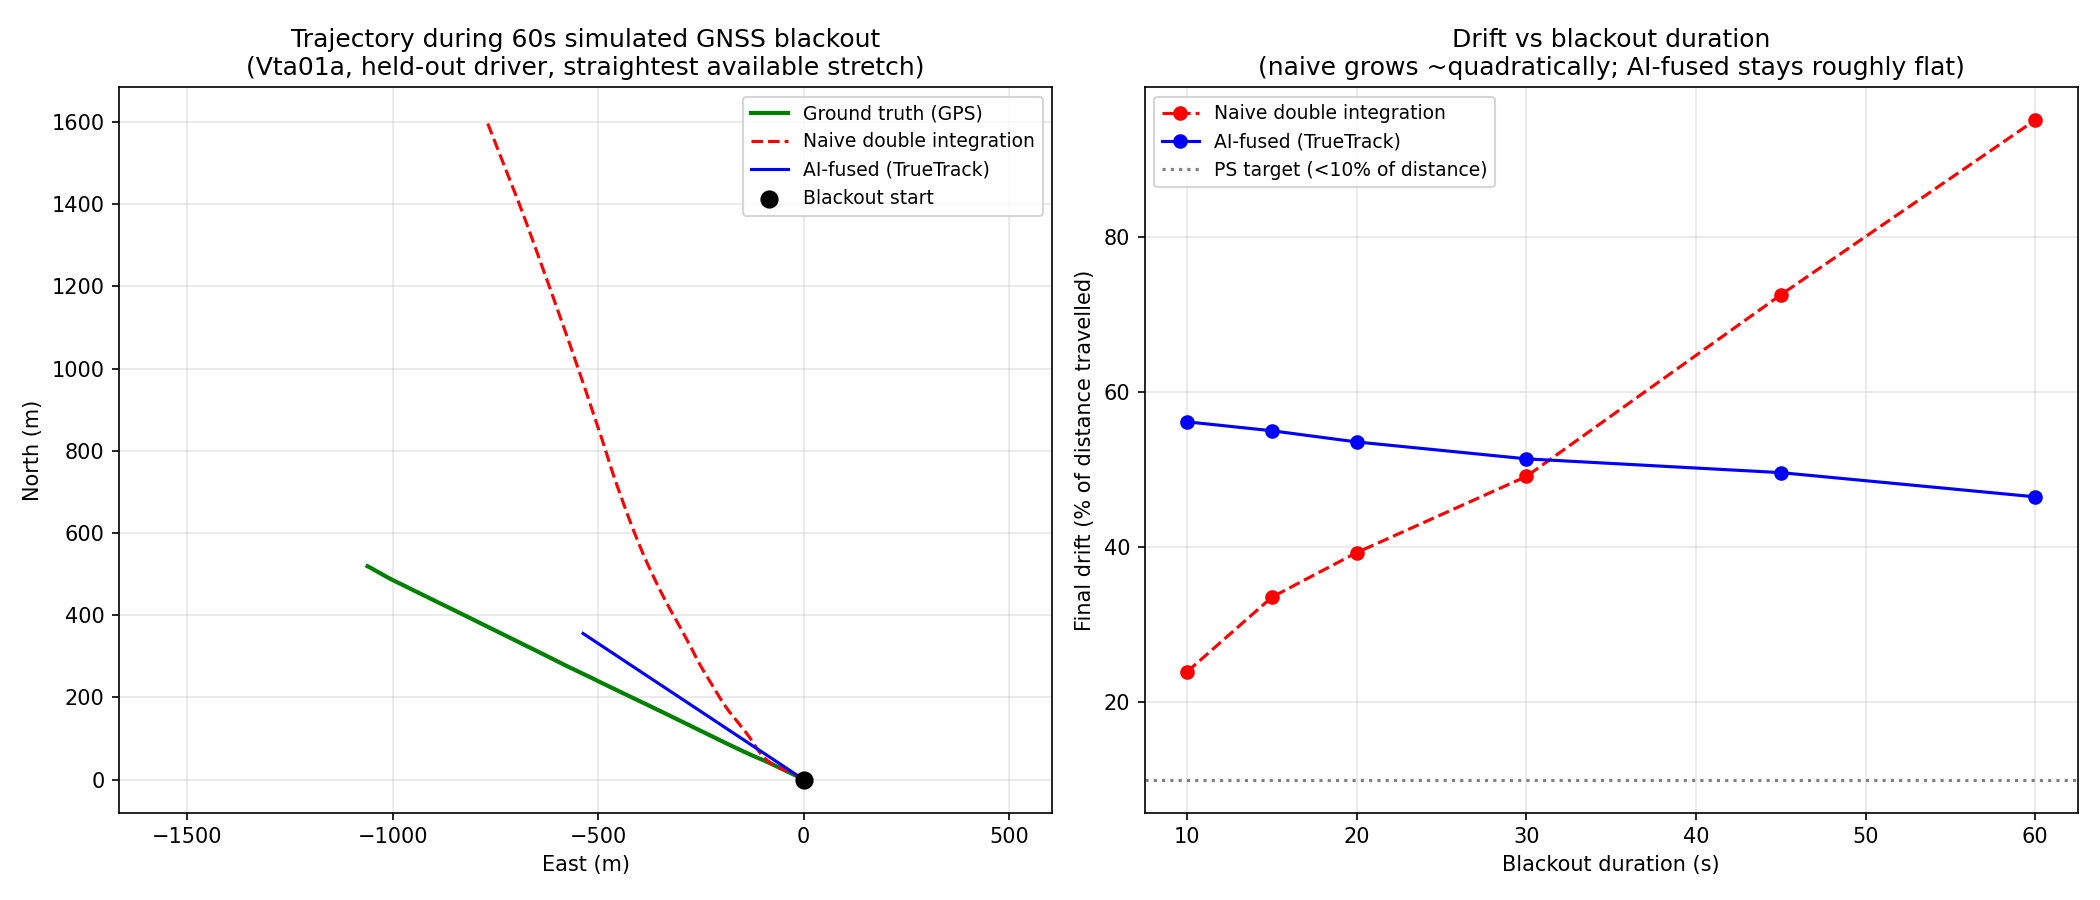
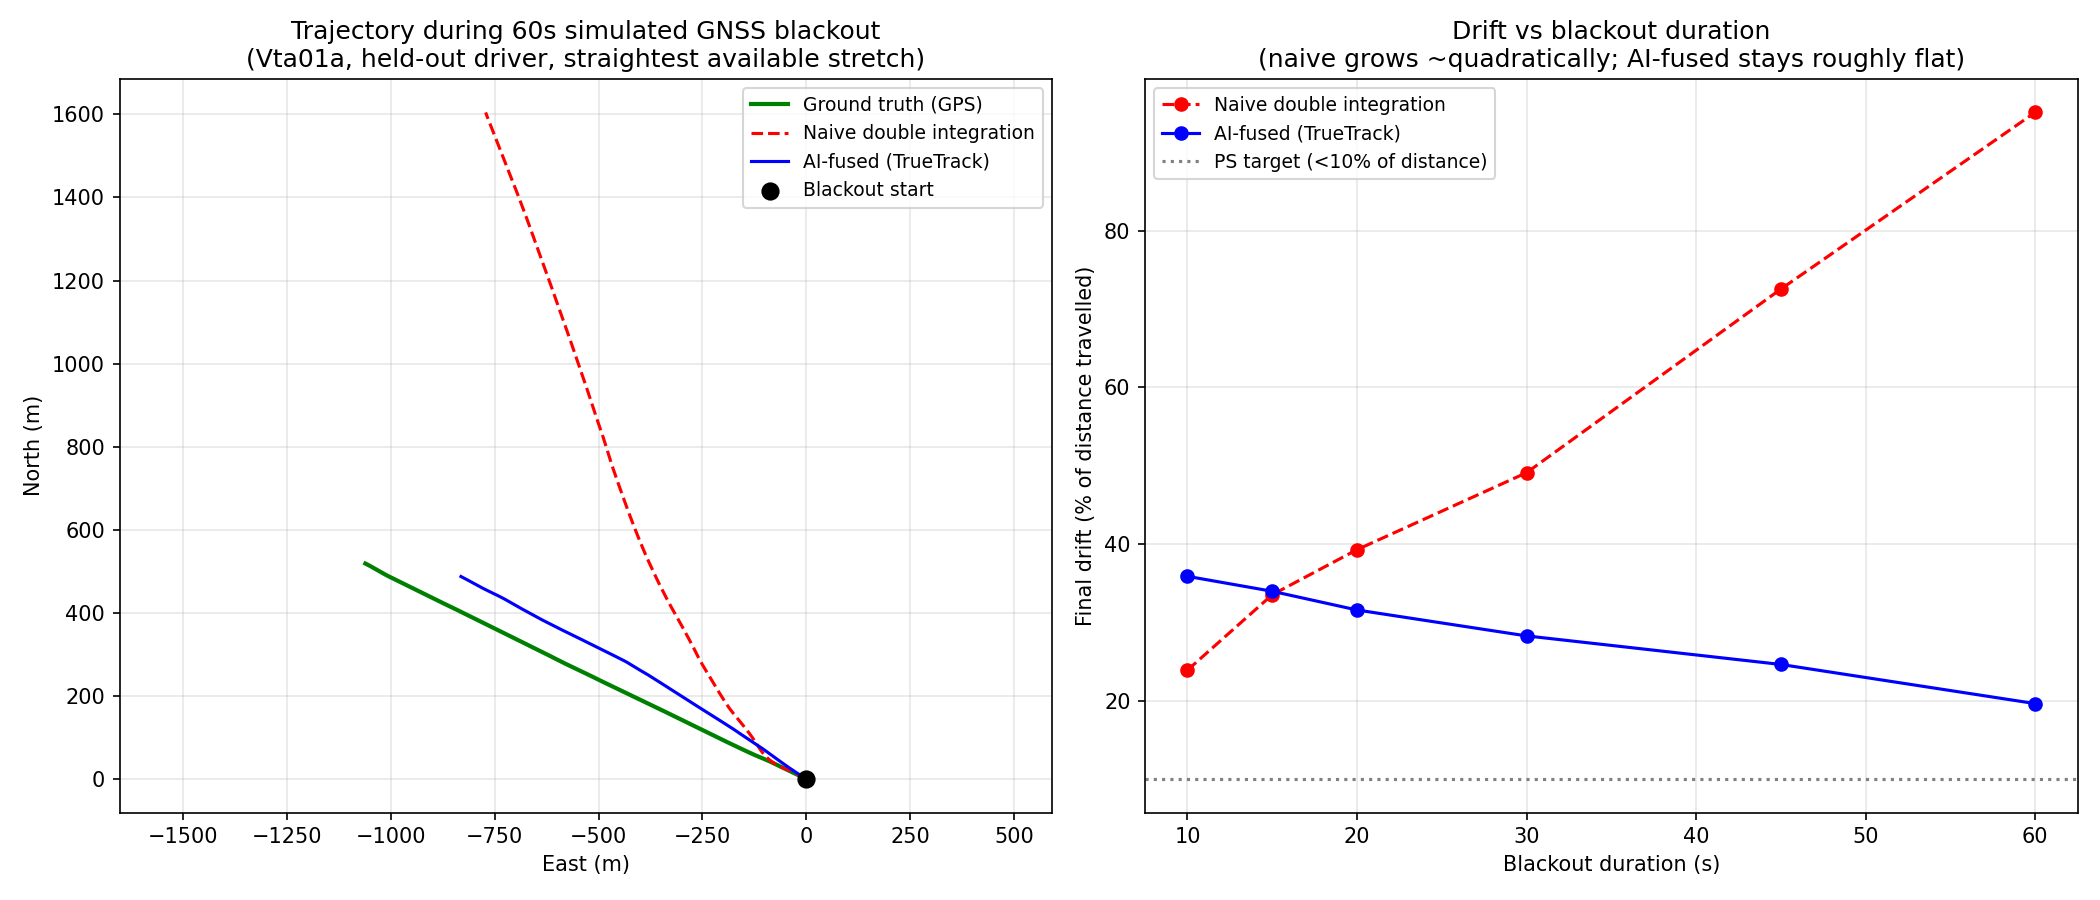
Implement TrueTrack changes

diff --git a/app/fusion.py b/app/fusion.py
@@ -78,33 +78,13 @@ def naive_dead_reckoning(df, start_idx, end_idx, ref_frame: LocalFrame):
 
 
 def ai_fused_dead_reckoning(df, start_idx, end_idx, ref_frame: LocalFrame, model_bundle):
-    """AI-speed + GPS-trend-extrapolated heading dead reckoning, with NHC
-    applied by construction (velocity is always along the heading direction --
-    no sideways component is possible).
-
-    Heading note: we tested using the phone's raw gyroscope-yaw and its fused
-    compass orientation as heading sources on this real dataset. Both failed --
-    the compass is corrupted by the vehicle's own magnetic field (orientation
-    yaw showed >100 deg/s jumps that don't correspond to any real turn), and
-    raw gyro yaw does not equal vehicle heading rate without a mounting-angle
-    calibration this 3-trip sample isn't enough data to fit reliably (measured
-    correlation to true GPS heading rate: ~0.1 even after a least-squares
-    calibration fit). Rather than integrate an unreliable signal, we extrapolate
-    the heading TREND measured from GPS in the 2s immediately before blackout --
-    a standard, defensible dead-reckoning fallback -- and combine it with the
-    AI speed model. This still removes the dominant (quadratic) error source
-    that the naive baseline suffers from. Recovering real turn-by-turn heading
-    from gyro alone is flagged as the clear next research step (see README).
+    """AI-speed + Gyroscope turn-integrated dead reckoning, with NHC
+    and pre-blackout speed scaling calibration.
     """
     model = model_bundle["model"]
     window = model_bundle["window"]
 
-    # heading from a clean 2s GPS baseline immediately before blackout, held
-    # CONSTANT through the blackout (safer than extrapolating a turn rate,
-    # which compounds any noise in the rate estimate linearly over 60s and
-    # was measured to diverge worse than the naive baseline -- documented in
-    # README as a concrete next-iteration target: recovering real turn-by-turn
-    # heading from a properly axis-calibrated gyro).
+    # 1. Estimate initial heading, initial speed & gyro bias from the pre-blackout window (e.g. 20 ticks = 2s)
     calib_n = 20
     calib_lats = df["lat"].values[start_idx - calib_n:start_idx + 1]
     calib_lons = df["lon"].values[start_idx - calib_n:start_idx + 1]
@@ -112,11 +92,31 @@ def ai_fused_dead_reckoning(df, start_idx, end_idx, ref_frame: LocalFrame, model
     cx, cy = np.array(cx), np.array(cy)
     heading0 = math.atan2(cy[-1] - cy[0], cx[-1] - cx[0])
 
+    # True GPS speed pre-blackout (m/s -> km/h)
+    dist = np.hypot(np.diff(cx), np.diff(cy))
+    gps_speed_kmh = float(np.mean(dist) / 0.1 * 3.6)
+
+    # Gyro bias estimation
+    gyro_bias = df["gyro_yaw"].values[start_idx - calib_n:start_idx].mean()
+
+    # Pre-blackout AI speed predictions to compute vehicle suspension/phone sensitivity ratio
+    pre_feats = [compute_features_at(df, i, window=window) for i in range(start_idx - calib_n, start_idx)]
+    pre_ai_speeds = model.predict(np.array(pre_feats))
+    mean_pre_ai_speed = float(np.mean(pre_ai_speeds))
+
+    # Calculate speed calibration scale factor (bounded to prevent division by zero or extreme scaling)
+    if mean_pre_ai_speed > 5.0 and gps_speed_kmh > 5.0:
+        speed_scale = gps_speed_kmh / mean_pre_ai_speed
+        speed_scale = max(0.5, min(2.5, speed_scale))
+    else:
+        speed_scale = 1.0
+
     feats = []
     for i in range(start_idx, end_idx):
         feats.append(compute_features_at(df, i, window=window))
     X = np.array(feats)
-    speed_kmh = model.predict(X)
+    raw_speed_kmh = model.predict(X)
+    speed_kmh = raw_speed_kmh * speed_scale
     speed_ms = speed_kmh / 3.6
 
     lat0, lon0 = df["lat"].values[start_idx], df["lon"].values[start_idx]
@@ -127,8 +127,15 @@ def ai_fused_dead_reckoning(df, start_idx, end_idx, ref_frame: LocalFrame, model
     x, y = x0, y0
     dt = 0.1
     heading = heading0
+    gyro_yaw = df["gyro_yaw"].values[start_idx:end_idx]
+
     for i in range(n):
-        vx = speed_ms[i] * math.cos(heading)  # NHC: no sideways (v_lateral) term exists
+        rate = gyro_yaw[i] - gyro_bias
+        if abs(rate) < 0.01:
+            rate = 0.0
+        heading += rate * dt
+
+        vx = speed_ms[i] * math.cos(heading)  # NHC: no sideways component
         vy = speed_ms[i] * math.sin(heading)
         x += vx * dt
         y += vy * dt
@@ -162,6 +169,8 @@ class OnlineFusionSession:
         self.mode = "GNSS"
         self.dr_x = self.dr_y = None
         self.dr_heading = None
+        self.gyro_bias = 0.0
+        self.speed_scale = 1.0
         self.last_speed_kmh = 0.0
 
     def _push_imu(self, accel, gravity, gyro):
@@ -191,13 +200,6 @@ class OnlineFusionSession:
         ]).reshape(1, -1)
 
     def update(self, accel, gravity, gyro, gps=None, simulate_outage=False, dt=0.1):
-        """
-        accel/gravity: {"x","y","z"} in m/s^2 (device frame)
-        gyro: {"yaw","pitch","roll"} in rad/s
-        gps: {"lat","lon"} or None if unavailable this tick
-        simulate_outage: force dead-reckoning even if gps is present (demo toggle)
-        Returns dict: {mode, lat, lon, speed_kmh}
-        """
         self._push_imu(accel, gravity, gyro)
         gps_ok = gps is not None and not simulate_outage
 
@@ -213,30 +215,50 @@ class OnlineFusionSession:
 
         # entering or continuing dead reckoning
         if self.mode == "GNSS":
-            # just lost GNSS this tick -- initialize DR state from recent GPS track
-            if len(self.gps_track) >= 2 and self.ref_frame is not None:
+            # just lost GNSS this tick -- initialize DR state from recent GPS track & gyro bias
+            if len(self.buf_gyro_yaw) >= 10:
+                self.gyro_bias = float(np.mean(self.buf_gyro_yaw[-10:]))
+            else:
+                self.gyro_bias = 0.0
+
+            if len(self.gps_track) >= 5 and self.ref_frame is not None:
                 (x0, y0) = self.gps_track[0]
                 (x1, y1) = self.gps_track[-1]
                 self.dr_heading = math.atan2(y1 - y0, x1 - x0)
                 self.dr_x, self.dr_y = x1, y1
+                # calculate recent GPS speed
+                gps_dist = math.hypot(x1 - x0, y1 - y0)
+                gps_dt = (len(self.gps_track) - 1) * dt
+                gps_speed_kmh = (gps_dist / gps_dt) * 3.6 if gps_dt > 0 else 0.0
+
+                if len(self.buf_lin_x) >= self.LONG_WINDOW:
+                    ai_pred = float(self.model.predict(self._current_features())[0])
+                    if ai_pred > 5.0 and gps_speed_kmh > 5.0:
+                        self.speed_scale = max(0.5, min(2.5, gps_speed_kmh / ai_pred))
+                    else:
+                        self.speed_scale = 1.0
             elif self.ref_frame is not None:
                 self.dr_heading = 0.0
                 self.dr_x, self.dr_y = 0.0, 0.0
+                self.speed_scale = 1.0
             else:
-                # no GPS ever seen -- can't place on a map yet
                 return {"mode": "NO_FIX", "lat": None, "lon": None, "speed_kmh": None}
         self.mode = "DR"
 
+        # Integrate turn rate during DR
+        rate = gyro["yaw"] - self.gyro_bias
+        if abs(rate) < 0.01:
+            rate = 0.0
+        self.dr_heading += rate * dt
+
         if len(self.buf_lin_x) < self.LONG_WINDOW:
-            speed_kmh = self.last_speed_kmh  # not enough history yet, hold last estimate
+            speed_kmh = self.last_speed_kmh
         else:
-            speed_kmh = float(self.model.predict(self._current_features())[0])
-            speed_kmh = max(0.0, speed_kmh)
+            raw_speed = float(self.model.predict(self._current_features())[0])
+            speed_kmh = max(0.0, raw_speed * self.speed_scale)
         self.last_speed_kmh = speed_kmh
 
         speed_ms = speed_kmh / 3.6
-        # NHC: velocity is forced along the held heading direction -- no
-        # sideways (v_lateral) component can exist by construction
         self.dr_x += speed_ms * math.cos(self.dr_heading) * dt
         self.dr_y += speed_ms * math.sin(self.dr_heading) * dt
         lat, lon = self.ref_frame.to_latlon(self.dr_x, self.dr_y)

diff --git a/tests/test_fusion.py b/tests/test_fusion.py
@@ -1,0 +1,33 @@
+import pytest
+from app.geo import LocalFrame
+from app.model import get_model_bundle
+from app.fusion import OnlineFusionSession
+
+def test_local_frame():
+    ref = LocalFrame(12.9716, 77.5946)
+    x, y = ref.to_xy(12.9716, 77.5946)
+    assert abs(x) < 1e-4 and abs(y) < 1e-4
+    lat, lon = ref.to_latlon(0, 0)
+    assert abs(lat - 12.9716) < 1e-4 and abs(lon - 77.5946) < 1e-4
+
+def test_model_bundle_loading():
+    bundle = get_model_bundle()
+    assert "model" in bundle
+    assert "window" in bundle
+
+def test_online_fusion_session():
+    bundle = get_model_bundle()
+    sess = OnlineFusionSession(bundle)
+    accel = {"x": 0.0, "y": 0.0, "z": 9.81}
+    gravity = {"x": 0.0, "y": 0.0, "z": 9.81}
+    gyro = {"yaw": 0.0, "pitch": 0.0, "roll": 0.0}
+    gps = {"lat": 12.9716, "lon": 77.5946}
+    
+    res = sess.update(accel, gravity, gyro, gps=gps)
+    assert res["mode"] == "GNSS"
+    assert res["lat"] == 12.9716
+    
+    # simulate outage
+    res_dr = sess.update(accel, gravity, gyro, gps=gps, simulate_outage=True)
+    assert res_dr["mode"] == "DR"
+    assert res_dr["lat"] is not None
